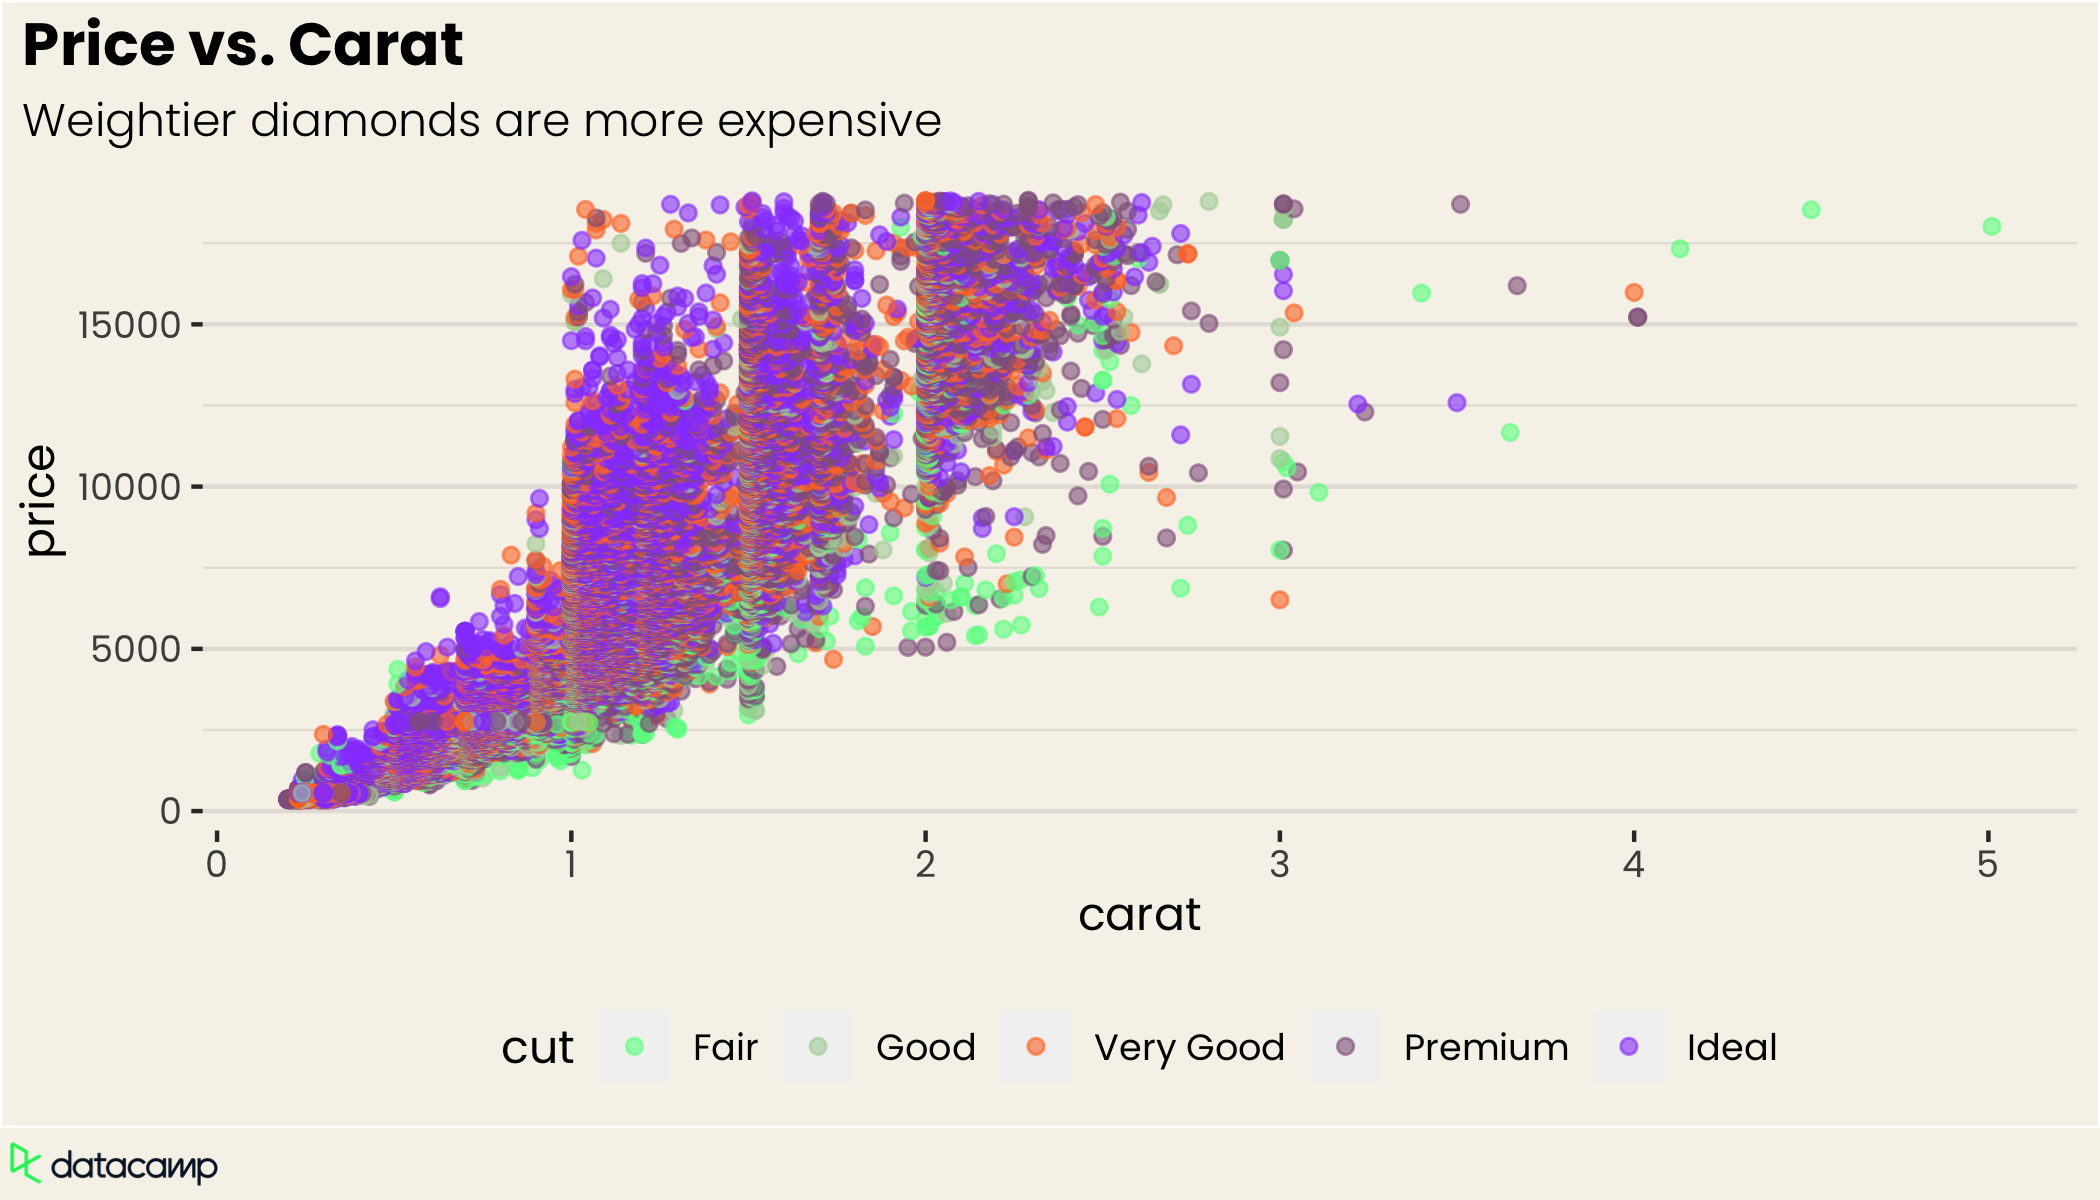
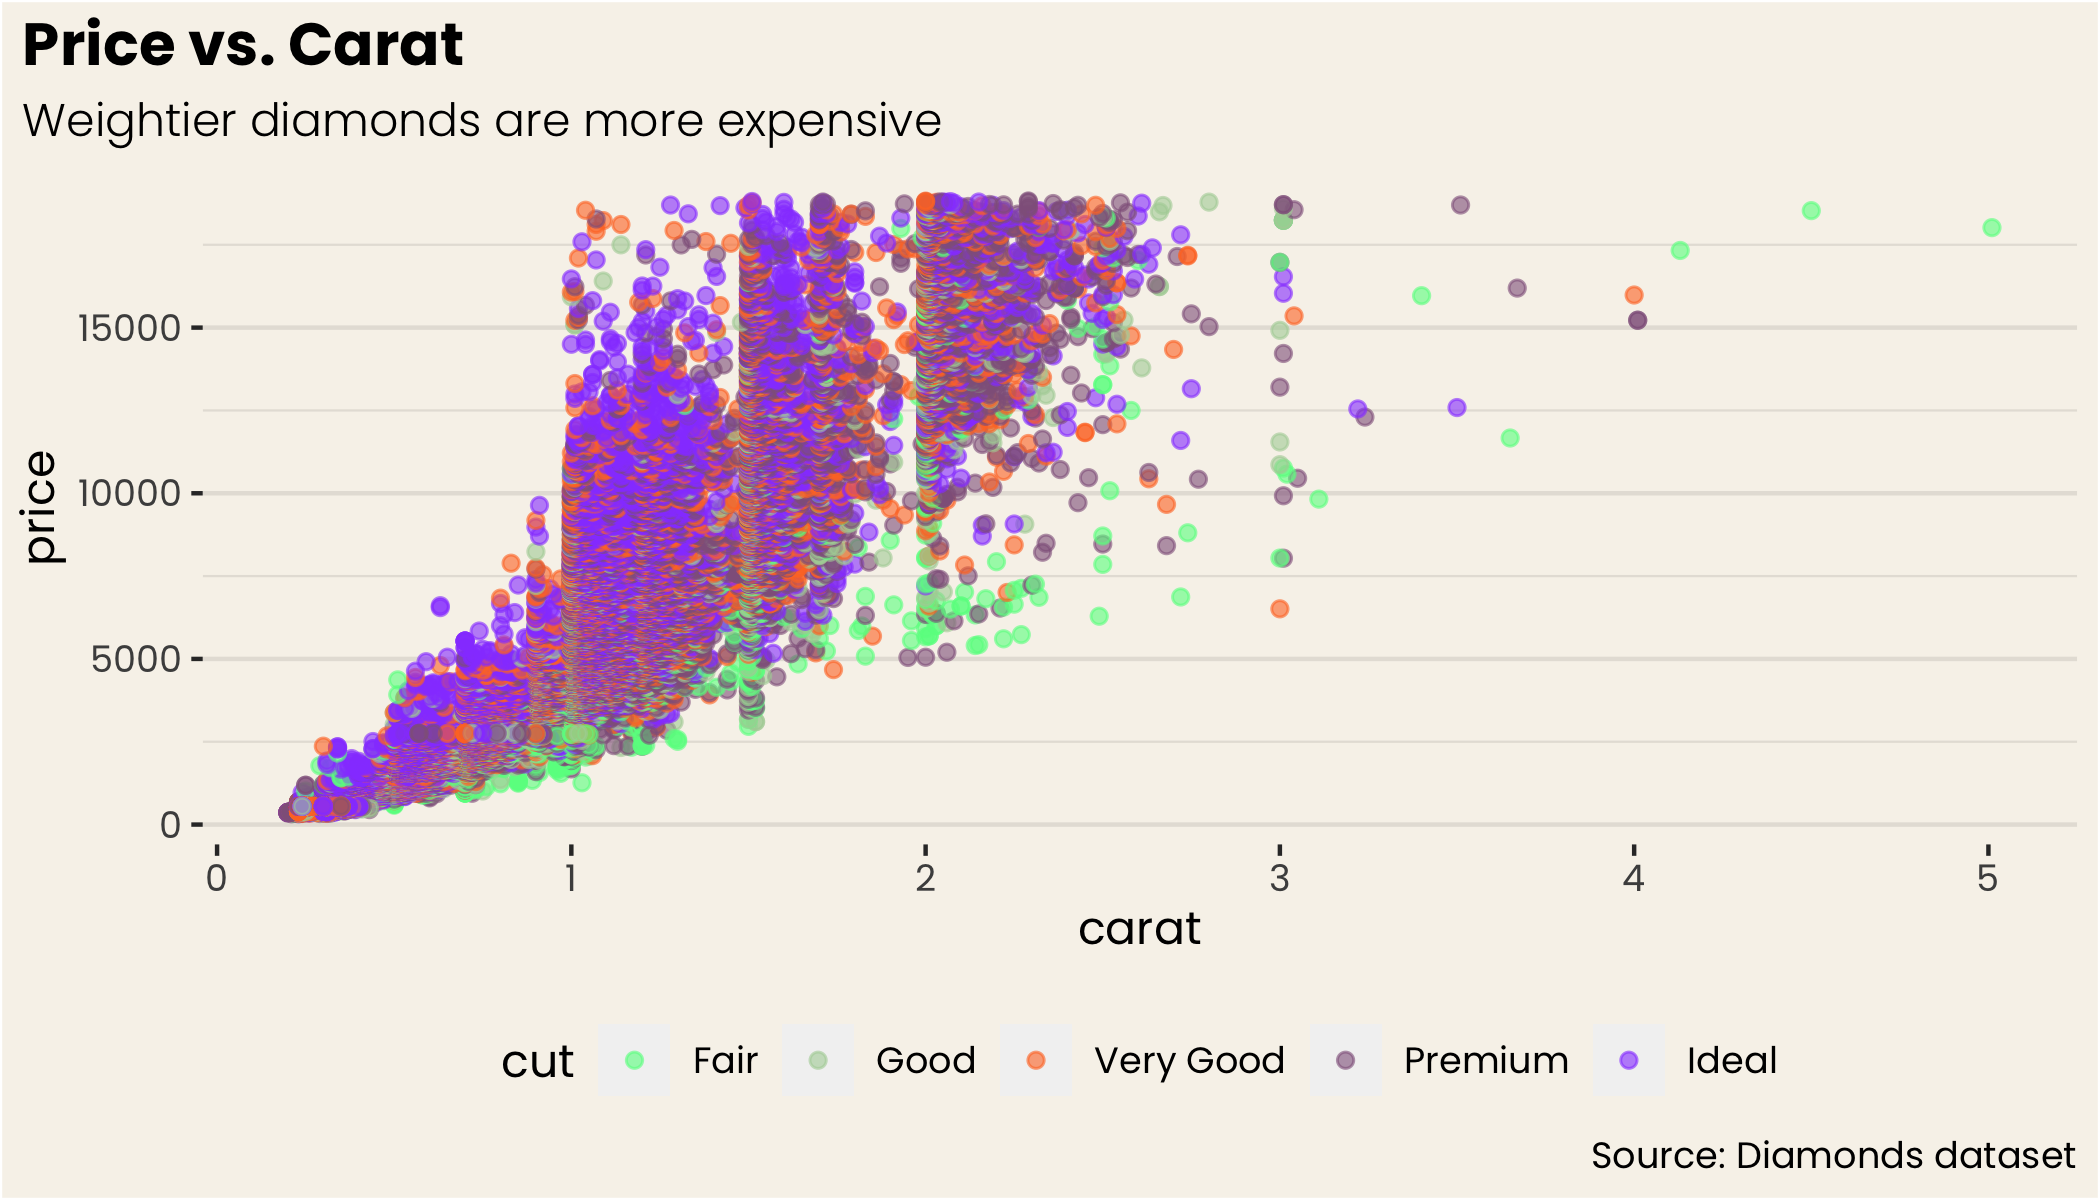
update readme

diff --git a/README.md b/README.md
@@ -16,9 +16,9 @@ You can install the package from github using `devtools`.
 devtools::install_github("datacamp/ggdc")
 ```
 
-## Example
+## Examples
 
-This is a basic example which shows you how to solve a common problem:
+## Light Theme
 
 ``` r
 library(ggdc)
@@ -27,7 +27,8 @@ p <- diamonds %>%
   geom_point(alpha = 0.6) +
   labs(
     title = "Price vs. Carat",
-    subtitle = "Weightier diamonds are more expensive"
+    subtitle = "Weightier diamonds are more expensive",
+    caption = "Source: Diamonds dataset"
   ) +
   scale_color_datacamp(palette = "accents_light")
 
@@ -42,18 +43,38 @@ p +
 </figcaption>
 </figure>
 
+### Dark Theme
+
 ``` r
-p + theme_datacamp_dark()
+p +
+  theme_datacamp_dark()
 ```
 
 <figure>
-<a href="man/figures/README-example_2-1.png" data-fancybox="">
-<img src="man/figures/README-example_2-1.png"/> </a>
+<a href="man/figures/README-dark-theme-1.png" data-fancybox="">
+<img src="man/figures/README-dark-theme-1.png"/> </a>
 <figcaption>
 </figcaption>
 </figure>
 
-## Example 2
+### Logo
+
+You can add a logo to the plot using `finalize_plot`. You can make this
+the default by adding `dc_set_chunk_opts(finalize_plot = TRUE)` in the
+setup chunk.
+
+``` r
+finalize_plot(p + theme_datacamp_dark())
+```
+
+<figure>
+<a href="man/figures/README-unnamed-chunk-1-1.png" data-fancybox="">
+<img src="man/figures/README-unnamed-chunk-1-1.png"/> </a>
+<figcaption>
+</figcaption>
+</figure>
+
+### Facets
 
 ``` r
 diamonds %>%
@@ -69,8 +90,8 @@ diamonds %>%
 ```
 
 <figure>
-<a href="man/figures/README-example-3-1.png" data-fancybox="">
-<img src="man/figures/README-example-3-1.png"/> </a>
+<a href="man/figures/README-example-facets-1.png" data-fancybox="">
+<img src="man/figures/README-example-facets-1.png"/> </a>
 <figcaption>
 </figcaption>
 </figure>
